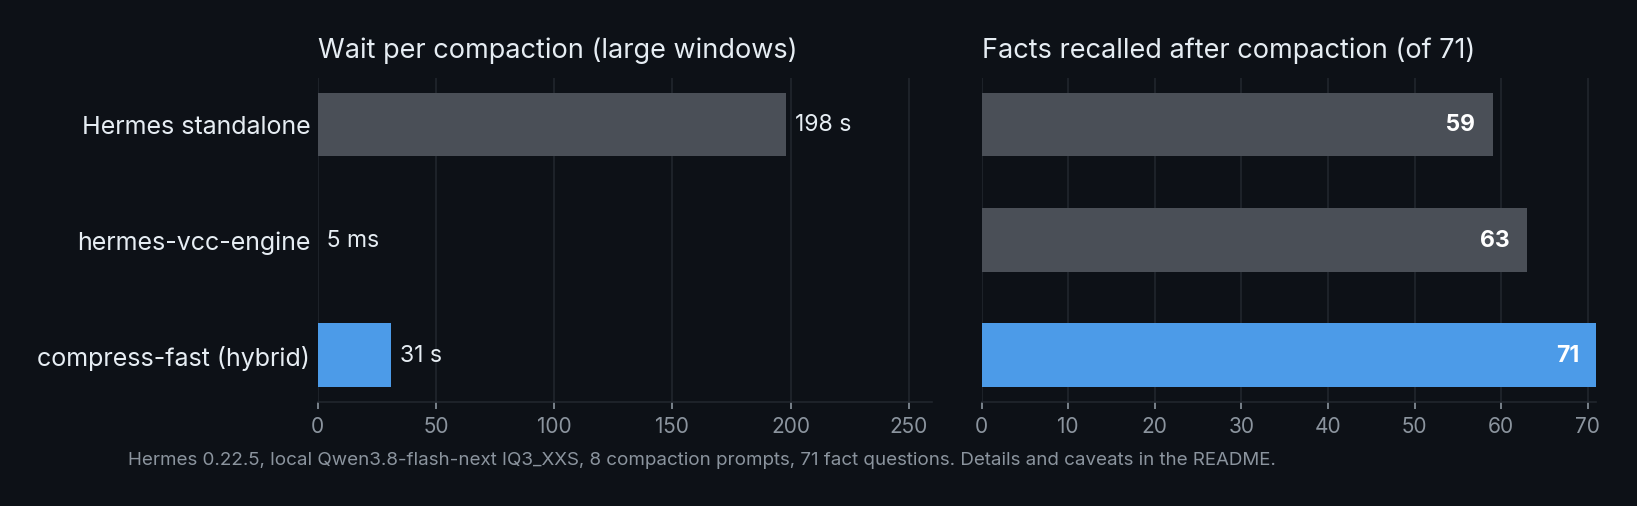
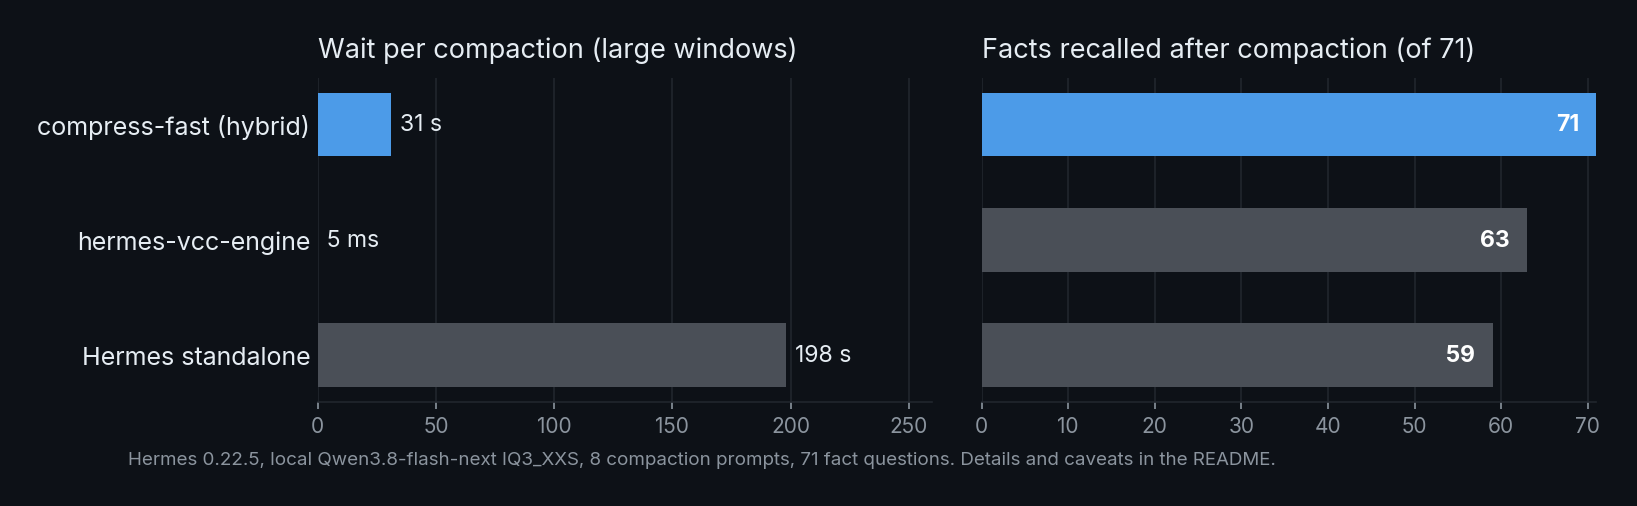
Results chart: ranked with compress-fast on top, readable labels on light gray bars

diff --git a/docs/make_images.py b/docs/make_images.py
@@ -19,18 +19,18 @@ OUT = Path(__file__).resolve().parent
 # background matches GitHub's dark and light page colors so the chart blends in
 THEMES = {
     "dark": {"bg": "#0d1117", "accent": "#4c9be8", "gray": "#4a4f57", "ink": "#e6edf3", "muted": "#8b949e",
-             "grid": "#21262d", "on_bar": "#ffffff"},
+             "grid": "#21262d", "on_bar": "#ffffff", "on_gray": "#ffffff"},
     "light": {"bg": "#ffffff", "accent": "#2a78d6", "gray": "#b4b2a9", "ink": "#1f2328", "muted": "#656d76",
-              "grid": "#e1e0d9", "on_bar": "#ffffff"},
+              "grid": "#e1e0d9", "on_bar": "#ffffff", "on_gray": "#1f2328"},
 }
 FONT = "Inter" if any("Inter" in f.name for f in font_manager.fontManager.ttflist) else "DejaVu Sans"
 plt.rcParams.update({"font.family": FONT, "font.size": 12})
 
-# variant, seconds per compaction on large windows (mean), facts recalled of 71
+# variant, seconds per compaction on large windows (mean), facts recalled of 71; ranked, best on top
 ROWS = [
-    ("Hermes standalone", 198, 59),
-    ("hermes-vcc-engine", 0.005, 63),
     ("compress-fast (hybrid)", 31, 71),
+    ("hermes-vcc-engine", 0.005, 63),
+    ("Hermes standalone", 198, 59),
 ]
 
 
@@ -55,8 +55,9 @@ def results(theme: str) -> None:
     b.set_xlim(0, 71)
     b.set_yticks([])
     b.set_title("Facts recalled after compaction (of 71)", loc="left", fontsize=13, color=c["ink"], pad=10)
-    for yi, r in zip(y, ROWS):
-        b.text(r[2] - 2, yi, str(r[2]), va="center", ha="right", color=c["on_bar"], fontsize=11, weight="bold")
+    for yi, r, col in zip(y, ROWS, colors):
+        on = c["on_bar"] if col == c["accent"] else c["on_gray"]
+        b.text(r[2] - 2, yi, str(r[2]), va="center", ha="right", color=on, fontsize=11, weight="bold")
     for ax in (a, b):
         ax.set_facecolor(c["bg"])
         for s in ("top", "right", "left"):

diff --git a/README.md b/README.md
@@ -19,7 +19,7 @@ points at.
 
 <picture>
   <source media="(prefers-color-scheme: light)" srcset="docs/results-light.png">
-  <img alt="Wait per compaction and facts recalled: Hermes standalone 198 s / 59, hermes-vcc-engine 5 ms / 63, compress-fast 31 s / 71 facts of 71" src="docs/results-dark.png">
+  <img alt="Wait per compaction and facts recalled: compress-fast 31 s / 71, hermes-vcc-engine 5 ms / 63, Hermes standalone 198 s / 59 facts of 71" src="docs/results-dark.png">
 </picture>
 
 ## Quick start
